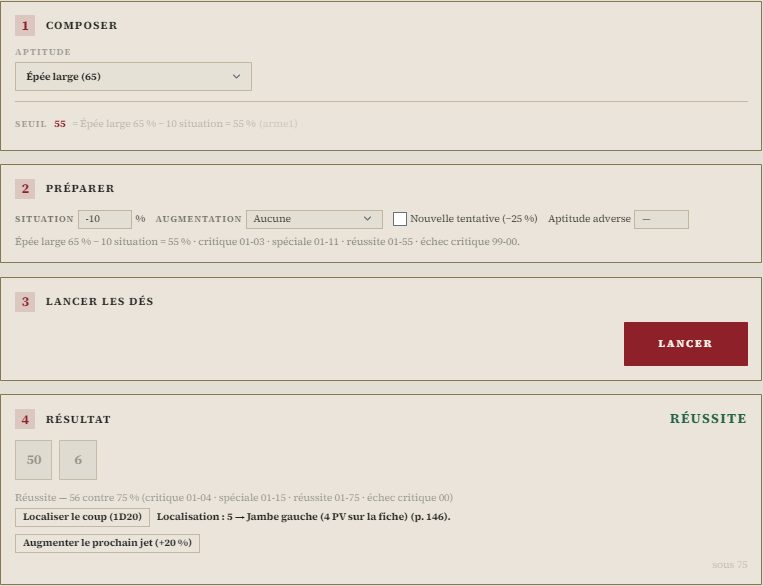
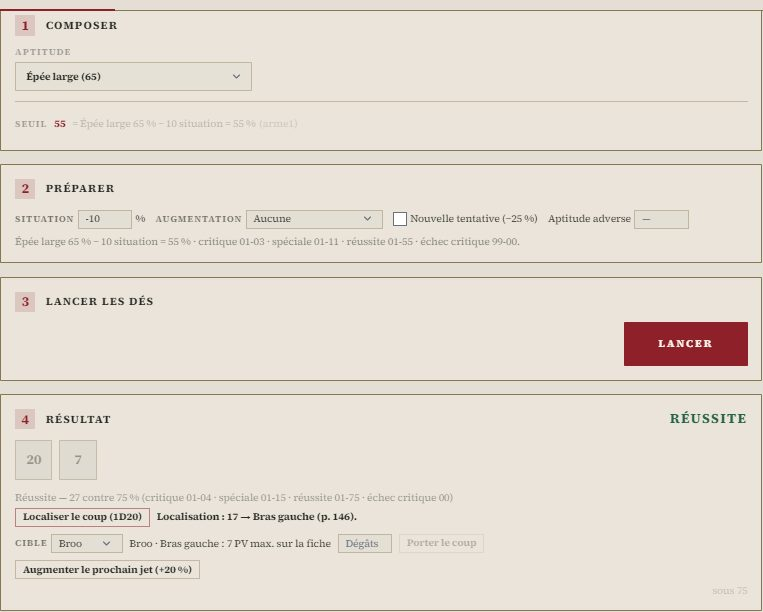
fix(runequest): afficher les PV de la cible choisie
A la demande de David, corriger RQ-A2 : afficher les PV maximum de la zone sur la fiche de la cible, sans reprendre ceux du lanceur. Mettre a jour localisation, journal, tests et manuel. Correction essayee et validee par David.

Changed region(s): [[0.0, 0.5222, 1.0, 0.9522], [0.0, 0.2457, 1.0, 0.5529], [0.0, 0.0, 1.0, 0.215]]

diff --git a/src/modules/session/components/fields/RuneQuestAuJet.tsx b/src/modules/session/components/fields/RuneQuestAuJet.tsx
@@ -1,8 +1,8 @@
 import React, { useState } from 'react';
 import {
-    AUGMENTATIONS_DE_RUNEQUEST, LIBELLES_DE_L_OPPOSITION, LIBELLES_DE_RUNEQUEST, MULTIPLICATEURS_DE_RUNEQUEST,
+    AUGMENTATIONS_DE_RUNEQUEST, LIBELLES_DE_L_OPPOSITION, LIBELLES_DE_RUNEQUEST, MULTIPLICATEURS_DE_RUNEQUEST, LOCALISATIONS,
     degreAdverse, issueDeLOpposition, localisationDuCoup, niveauDeRuneQuest, plagesDeRuneQuest,
-    type CalculDeRuneQuest, type ChoixDeRuneQuest, type JetDeRuneQuest, type RegleDeRuneQuest,
+    type CalculDeRuneQuest, type ChoixDeRuneQuest, type JetDeRuneQuest, type RegleDeRuneQuest, type Localisation,
 } from '../../../dice/systemes/runequest';
 import { useCombatStore } from '../../../combat/useCombatStore';
 import { porterUnCoupLocalise } from '../../../combat/coupsLocalises';
@@ -101,7 +101,6 @@ export const SuitesRuneQuest: React.FC<{
     jet: JetDeRuneQuest;
     calcul: CalculDeRuneQuest;
     regle: RegleDeRuneQuest;
-    valeurs: Record<string, unknown>;
     /** Lance un D20, pour la localisation. */
     d20: () => number;
     /** Sert ce résultat d'augmentation au prochain jet (p. 144-145). */
@@ -111,11 +110,11 @@ export const SuitesRuneQuest: React.FC<{
     consigner: (ligne: string) => void;
     /** Au meneur seulement : porter le coup localisé à un combattant (`porterUnCoupLocalise`). */
     porterLeCoup?: boolean;
-}> = ({ jet, calcul, regle, valeurs, d20, augmenter, retenter, consigner, porterLeCoup = false }) => {
+}> = ({ jet, calcul, regle, d20, augmenter, retenter, consigner, porterLeCoup = false }) => {
     const [deAdverse, setDeAdverse] = useState('');
     const [issue, setIssue] = useState<string | null>(null);
     const [localisation, setLocalisation] = useState<string | null>(null);
-    const [zoneTouchee, setZoneTouchee] = useState<string | null>(null);
+    const [zoneTouchee, setZoneTouchee] = useState<Localisation | null>(null);
     const niveau = jet.runequest.niveau;
     const bonus = AUGMENTATIONS_DE_RUNEQUEST[niveau];
     const reussi = niveau !== 'echec' && niveau !== 'echec-critique';
@@ -132,9 +131,9 @@ export const SuitesRuneQuest: React.FC<{
     const localiser = () => {
         const de = d20();
         const zone = localisationDuCoup(de);
-        const champPV = regle.localisations?.[zone.cle];
-        const pv = champPV !== undefined ? valeurs[champPV] : undefined;
-        const texte = `Localisation : ${de} → ${zone.label}${pv !== undefined && pv !== '' ? ` (${String(pv)} PV sur la fiche)` : ''} (p. 146).`;
+        // La localisation ne dépend pas du lanceur. Les PV se lisent sur la cible
+        // choisie ci-dessous, qui peut encore changer après le D20 (RQ-A2, 01/11/2026).
+        const texte = `Localisation : ${de} → ${zone.label} (p. 146).`;
         setLocalisation(texte);
         setZoneTouchee(zone.cle);
         consigner(texte);
@@ -157,7 +156,7 @@ export const SuitesRuneQuest: React.FC<{
                 <button type="button" className={bouton} onClick={localiser} title="1D20 sur la table des localisations (p. 146).">Localiser le coup (1D20)</button>
                 {localisation && <span data-localisation-runequest className="font-bold">{localisation}</span>}
             </div>
-            {porterLeCoup && zoneTouchee && <PorterLeCoup zone={zoneTouchee} />}
+            {porterLeCoup && zoneTouchee && <PorterLeCoup zone={zoneTouchee} regle={regle} />}
             <div className="flex flex-wrap items-center gap-2">
                 <button type="button" className={bouton} onClick={() => augmenter(bonus)}
                     title="Ce jet était un test d'augmentation : son niveau s'applique à l'aptitude lancée ensuite (p. 144-145).">
@@ -179,7 +178,7 @@ export const SuitesRuneQuest: React.FC<{
  * le tour, l'attaquant d'ordinaire. Les dégâts saisis passent par l'armure, la zone et
  * le total, par la même porte que la carte du combattant.
  */
-const PorterLeCoup: React.FC<{ zone: string }> = ({ zone }) => {
+const PorterLeCoup: React.FC<{ zone: Localisation; regle: RegleDeRuneQuest }> = ({ zone, regle }) => {
     const combattants = useCombatStore(s => s.combatants);
     const cibleDuTour = useCombatStore(s => s.combatants[s.currentTurnIdx]?.targetId ?? '');
     const [cible, setCible] = useState(cibleDuTour);
@@ -187,6 +186,11 @@ const PorterLeCoup: React.FC<{ zone: string }> = ({ zone }) => {
     const [porte, setPorte] = useState<string | null>(null);
     if (combattants.length === 0) return null;
     const vise = combattants.find(c => c.id === cible);
+    const champPV = regle.localisations?.[zone];
+    const valeurPV = champPV ? vise?.sheetData?.[champPV] : undefined;
+    const pv = (typeof valeurPV === 'number' || (typeof valeurPV === 'string' && valeurPV.trim() !== ''))
+        && Number.isFinite(Number(valeurPV)) ? Number(valeurPV) : undefined;
+    const libelleZone = LOCALISATIONS.find(l => l.cle === zone)!.label;
     const n = Math.max(0, entier(points));
     const porter = () => {
         if (!vise || n === 0) return;
@@ -203,6 +207,10 @@ const PorterLeCoup: React.FC<{ zone: string }> = ({ zone }) => {
                     {combattants.map(c => <option key={c.id} value={c.id}>{c.name}</option>)}
                 </select>
             </label>
+            <span data-pv-cible-runequest aria-live="polite">
+                {vise ? `${vise.name} · ${libelleZone} : ${pv === undefined ? 'PV inconnus sur la fiche' : `${pv} PV max. sur la fiche`}`
+                    : 'Choisir une cible pour lire les PV de la zone.'}
+            </span>
             <input aria-label="Dégâts portés" type="number" min={0} value={points} placeholder="Dégâts" className={`w-16 ${champ}`}
                 onChange={e => setPoints(e.target.value)} />
             <button type="button" className={bouton} disabled={!vise || n === 0} onClick={porter}

diff --git a/src/modules/session/components/fields/PanneauDeJet.runequest.test.tsx b/src/modules/session/components/fields/PanneauDeJet.runequest.test.tsx
@@ -1,5 +1,5 @@
 import { describe, it, expect, vi, beforeEach, afterEach } from 'vitest';
-import { render, screen, fireEvent, cleanup } from '@testing-library/react';
+import { render, screen, fireEvent, cleanup, act } from '@testing-library/react';
 
 const consigner = vi.fn();
 vi.mock('../../../journal/consignerLeJet', () => ({ consignerLeJet: (...a: unknown[]) => consigner(...a) }));
@@ -116,19 +116,20 @@ describe('le jet de RuneQuest au panneau', () => {
         expect(screen.getByText(/Il l’emporte/)).toBeTruthy();
     });
 
-    it('localise le coup au D20 et dit les PV de la zone (p. 146)', () => {
+    it('localise le coup sans attribuer les PV du lanceur à la cible (p. 146)', () => {
         monter('epee_large');
         faces(30);
         lancer();
         d20(12);
         fireEvent.click(screen.getByText('Localiser le coup (1D20)'));
-        expect(screen.getByText(/12 → Poitrine \(5 PV sur la fiche\)/)).toBeTruthy();
+        expect(screen.getByText('Localisation : 12 → Poitrine (p. 146).')).toBeTruthy();
+        expect(JSON.stringify(consigner.mock.calls)).not.toContain('5 PV');
     });
 
     describe('le coup localisé, porté depuis le jet (2026-10-30)', () => {
         const combat = useCombatStore.getState();
-        const broo = { id: 'broo', name: 'Broo', isPlayer: false, hp: 12, hpMax: 12, statuses: [], sheetData: {} } as unknown as Combatant;
-        const vasana = { id: 'vasana', name: 'Vasana', isPlayer: false, hp: 12, hpMax: 12, statuses: [], targetId: 'broo', sheetData: {} } as unknown as Combatant;
+        const broo = { id: 'broo', name: 'Broo', isPlayer: false, hp: 12, hpMax: 12, statuses: [], sheetData: { pv_poitrine: 7 } } as unknown as Combatant;
+        const vasana = { id: 'vasana', name: 'Vasana', isPlayer: false, hp: 12, hpMax: 12, statuses: [], targetId: 'broo', sheetData: { pv_poitrine: 3 } } as unknown as Combatant;
         beforeEach(() => useCombatStore.setState({ combatants: [vasana, broo], currentTurnIdx: 0 }));
         afterEach(() => useCombatStore.setState(combat, true));
 
@@ -140,6 +141,35 @@ describe('le jet de RuneQuest au panneau', () => {
             fireEvent.click(screen.getByText('Localiser le coup (1D20)'));
             expect((screen.getByLabelText('Cible du coup') as HTMLSelectElement).value).toBe('broo');
             expect(screen.getByText('Porter le coup')).toBeTruthy();
+            expect(screen.getByText('Broo · Poitrine : 7 PV max. sur la fiche')).toBeTruthy();
+        });
+
+        it('change les PV affichés avec la cible, sans relancer la localisation ni modifier le lanceur', () => {
+            const panneau = monter('epee_large');
+            faces(30); lancer(); d20(12);
+            fireEvent.click(screen.getByText('Localiser le coup (1D20)'));
+            fireEvent.change(screen.getByLabelText('Cible du coup'), { target: { value: 'vasana' } });
+            expect(screen.getByText('Vasana · Poitrine : 3 PV max. sur la fiche')).toBeTruthy();
+            expect(panneau.querySelector('[data-localisation-runequest]')!.textContent).toBe('Localisation : 12 → Poitrine (p. 146).');
+            expect(JSON.stringify(consigner.mock.calls)).not.toContain('5 PV');
+            expect(VALEURS.pv_poitrine).toBe(5);
+            expect(useCombatStore.getState().combatants).toEqual([vasana, broo]);
+        });
+
+        it.each([undefined, '', '   ', null, 'inconnu'])('annonce les PV inconnus pour une valeur cible %s, sans reprendre ceux du lanceur', valeur => {
+            useCombatStore.setState({ combatants: [vasana, { ...broo, sheetData: { pv_poitrine: valeur } }] });
+            monter('epee_large'); faces(30); lancer(); d20(12);
+            fireEvent.click(screen.getByText('Localiser le coup (1D20)'));
+            expect(screen.getByText('Broo · Poitrine : PV inconnus sur la fiche')).toBeTruthy();
+            fireEvent.change(screen.getByLabelText('Cible du coup'), { target: { value: '' } });
+            expect(screen.getByText('Choisir une cible pour lire les PV de la zone.')).toBeTruthy();
+        });
+
+        it('actualise les PV de la cible depuis Combat-OS et conserve un zéro explicite', () => {
+            monter('epee_large'); faces(30); lancer(); d20(12);
+            fireEvent.click(screen.getByText('Localiser le coup (1D20)'));
+            act(() => useCombatStore.setState({ combatants: [vasana, { ...broo, sheetData: { pv_poitrine: 0 } }] }));
+            expect(screen.getByText('Broo · Poitrine : 0 PV max. sur la fiche')).toBeTruthy();
         });
 
         it('ne se propose pas sur la tablette d’un joueur', () => {
@@ -150,6 +180,8 @@ describe('le jet de RuneQuest au panneau', () => {
             d20(12);
             fireEvent.click(screen.getByText('Localiser le coup (1D20)'));
             expect(screen.queryByText('Porter le coup')).toBeNull();
+            expect(screen.queryByLabelText('Cible du coup')).toBeNull();
+            expect(screen.queryByText(/PV max. sur la fiche/)).toBeNull();
         });
     });
 });

diff --git a/e2e/capturesDesJeux.spec.ts b/e2e/capturesDesJeux.spec.ts
@@ -1098,9 +1098,38 @@ async function scenesDeRuneQuest(c: ContexteDeScene): Promise<void> {
     await panneau.getByRole('button', { name: 'Lancer', exact: true }).click();
     const suites = panneau.locator('[data-suites-runequest]');
     await expect(suites).toBeVisible();
-    await suites.getByRole('button', { name: 'Localiser le coup (1D20)', exact: true }).click();
-    await expect(suites.locator('[data-localisation-runequest]')).toContainText('PV sur la fiche');
-    await photographier(panneau, 'jeu-runequest-suites');
+    // RQ-A2 (01/11) : les valeurs de deux cibles fictives diffèrent de celles de Vasana.
+    const combatAvant = await f.evaluate(champs => {
+        const combat = (window as unknown as Fenetre).useCombatStore;
+        const { combatants, currentTurnIdx } = combat.getState();
+        combat.setState({ currentTurnIdx: 0, combatants: [
+            { id: 'rq-broo', name: 'Broo', init: 1, isPlayer: false, faction: 'enemy', statuses: [], targetId: 'rq-broo',
+                sheetData: Object.fromEntries(champs.map(champ => [champ, 7])) },
+            { id: 'rq-guerrier', name: 'Guerrier', init: 2, isPlayer: false, faction: 'enemy', statuses: [],
+                sheetData: Object.fromEntries(champs.map(champ => [champ, 3])) },
+        ] });
+        return { combatants, currentTurnIdx };
+    }, Object.values(c.pilote.gameDriver.jet?.runequest?.localisations ?? {}));
+    try {
+        await suites.getByRole('button', { name: 'Localiser le coup (1D20)', exact: true }).click();
+        const localisation = suites.locator('[data-localisation-runequest]');
+        await expect(localisation).toContainText('Localisation :');
+        await expect(localisation).not.toContainText('PV');
+        const resultat = await localisation.textContent();
+        const pv = suites.locator('[data-pv-cible-runequest]');
+        await expect(pv).toContainText('Broo');
+        await expect(pv).toContainText('7 PV max. sur la fiche');
+        await suites.getByLabel('Cible du coup', { exact: true }).selectOption('rq-guerrier');
+        await expect(pv).toContainText('Guerrier');
+        await expect(pv).toContainText('3 PV max. sur la fiche');
+        await expect(localisation).toHaveText(resultat!);
+        await suites.getByLabel('Cible du coup', { exact: true }).selectOption('');
+        await expect(pv).toHaveText('Choisir une cible pour lire les PV de la zone.');
+        await suites.getByLabel('Cible du coup', { exact: true }).selectOption('rq-broo');
+        await photographier(panneau, 'jeu-runequest-suites');
+    } finally {
+        await f.evaluate(avant => (window as unknown as Fenetre).useCombatStore.setState(avant), combatAvant);
+    }
 
     // La situation reste réglée d'un jet à l'autre ; l'augmentation, elle, n'a valu qu'une fois.
     await panneau.getByLabel('Modificateur de situation', { exact: true }).fill('0');

diff --git a/src/modules/session/components/fields/PanneauDeJet.tsx b/src/modules/session/components/fields/PanneauDeJet.tsx
@@ -3103,7 +3103,7 @@ const PanneauDeJet: React.FC<PanneauDeJetProps> = ({
                         )}
                         {regleRuneQuest && runequestDuLancer && runequestDuResultat && (
                             <SuitesRuneQuest key={runequestDuLancer.compte} jet={resultat as JetDeRuneQuest} calcul={runequestDuLancer.calcul}
-                                regle={regleRuneQuest} valeurs={valeurs} d20={() => DiceEngine.roll(20)} porterLeCoup={!pourLesJoueurs}
+                                regle={regleRuneQuest} d20={() => DiceEngine.roll(20)} porterLeCoup={!pourLesJoueurs}
                                 augmenter={bonus => setChoixRuneQuest(c => ({ ...c, augmentation: bonus }))}
                                 retenter={() => setChoixRuneQuest(c => ({ ...c, nouvelleTentative: true }))}
                                 consigner={ligne => redire(dernierLancer?.titre ?? 'RuneQuest', { total: 0, modifier: 0, rolls: [], totalDisplay: ligne })} />

diff --git a/documentation/User Guides/53-Les-jeux-et-leurs-mecaniques.md b/documentation/User Guides/53-Les-jeux-et-leurs-mecaniques.md
@@ -166,7 +166,7 @@ appareil. Un pilote décrit son jet avec une ou plusieurs de ces pièces :
 | **Réserve à succès et déclencheurs** (`degenesis`) | La réserve (attribut + compétence, `reserve.composantes`) réussit chaque dé sur `dice.successThreshold` (4). L'étape « Préparer » choisit la difficulté du livre en succès requis, ajoute les **modificateurs en dés** (portée, déplacement, obscurité…) et l'**Égo dépensé** (`ego`, retiré de la fiche au lancer) ; chaque Traumatisme de `traumatismes` retire un dé ; au-delà de 12 dés, le surplus devient des succès d'office. Le résultat dit la réussite et ses **déclencheurs** (bien … légendaire), ou l'**échec critique**. Voir le [guide Degenesis](54-Jeu-Degenesis.md) | Degenesis : INS 2 + Dressage 1 → 3 dés, difficulté 2 |
 | **d20 + caractéristique contre la difficulté** (`coc`) | Une composante, choisie parmi les caractéristiques, les attaques et les armes nommées (`motif`). L'étape « Préparer » règle la **difficulté** du livre ou la **DEF** de la cible (`attaques`), les **conditions** (±2, ±5, ±10), les **aides** (+2), le **dé bonus** ou **malus** (deux d20, le meilleur ou le pire), le pire **état préjudiciable**, les **plages critiques**, *prendre son temps* (10) ou le mode *rapide et furieux* ; l'état de l'**échelle de santé** (`sante`) retire son malus aux actions physiques (`physiques`), le **blues** joue sur la VOL et les interactions (`evolution`). Après : l'**échelle du héros** (+2, +5, Légende +10) et l'échelon gagné sur un critique. `des: '3d6'` passe à l'option du 3d6. Voir le [guide COC](54-Jeu-COC.md) | COC : AGI 3, 8 au dé → 11 contre 10, réussi |
 | **Réserve et dés de risque** (`shadowrun`) | La réserve (compétence + attribut, `reserve.composantes`) ne change jamais, sauf les deux dés de la **spécialisation**. L'étape « Préparer » règle le **seuil** du livre, les **dés de risque** — la table « Combien prendre de dés de risque ? » en raccourcis, l'action **normale** par défaut —, la **RR** (proposée d'après `rrDesCompetences`), la **situation** (avantage, désavantage), l'**avantage payé** d'un point d'Anarchy (`anarchy`), la **blessure légère récente** et le **test de magie** (l'`essence` annule des succès) ; une blessure grave (`blessures`) impose le désavantage, une incapacitante interdit le test. Le résultat dit les **succès nets**, la **complication** et l'Anarchy qu'elle rapporte ; **Relancer** coûte un point et garde la complication du premier jet. `risqueAlternatif` passe aux dés spéciaux de la p. 72. Voir le [guide Shadowrun](54-Jeu-Shadowrun-Anarchy.md) | Shadowrun : Armes à distance 7 + Agilité 4 → 11 dés, 7 de risque, RR 1 |
-| **Cinq niveaux sur les chances modifiées** (`runequest`) | Un d100 sous l'aptitude retenue (une seule composante). L'étape « Préparer » règle la situation, l'augmentation, la nouvelle tentative (−25) et l'aptitude adverse — au-delà de 100 %, l'excédent se retire aux deux camps. Une caractéristique nommée dans `caracteristiques` se teste ×5 à ×0,5 ou sur la table de résistance. Critique et spéciale au vingtième et au cinquième, échec critique dans les 5 % des chances d'échec, 01-05 et 96-00 toujours ; le résultat se nomme comme le livre. Après : trancher l'opposition, localiser le coup (les PV lus dans `localisations`), servir le jet d'augmentation. Voir le [guide RuneQuest](54-Jeu-RuneQuest.md) | RuneQuest : Épée large 65 %, +20, −10 → 75 % (critique 01-04, spéciale 01-15) |
+| **Cinq niveaux sur les chances modifiées** (`runequest`) | Un d100 sous l'aptitude retenue (une seule composante). L'étape « Préparer » règle la situation, l'augmentation, la nouvelle tentative (−25) et l'aptitude adverse — au-delà de 100 %, l'excédent se retire aux deux camps. Une caractéristique nommée dans `caracteristiques` se teste ×5 à ×0,5 ou sur la table de résistance. Critique et spéciale au vingtième et au cinquième, échec critique dans les 5 % des chances d'échec, 01-05 et 96-00 toujours ; le résultat se nomme comme le livre. Après : trancher l'opposition, localiser le coup (au meneur, les PV maximum de la zone lus sur la fiche de la cible choisie, via `localisations`), servir le jet d'augmentation. Voir le [guide RuneQuest](54-Jeu-RuneQuest.md) | RuneQuest : Épée large 65 %, +20, −10 → 75 % (critique 01-04, spéciale 01-15) |
 | **Symbaroum jusqu'au bout** (`symbaroum`) | Sur un d20 sous un Attribut : la **nature du test** (Test, Attaque, Défense — la Défense se jette sur sa valeur secondaire). Après une attaque réussie, **les dégâts** de l'arme de la fiche (Avantage +1D4, Attaque parfaite +1D6) moins la protection fixe du PNJ, et la Résistance à la douleur ; après une Défense ratée, **encaisser** : les dégâts fixes du PNJ moins la protection lancée, retirés de l'Endurance — à 0, mourant. Le 1 et le 20 n'ont **pas de critique de base**. Cartes **Endurance et agonie** (Test de mort, soins, Medicus par rang), **Corruption et Stigmates** (sources, Stigmates du Tableau 24, Ombre), **Le tour de combat**, **Bourse** (thalers, shillings, ortegs), et au meneur **Valeurs dérivées**, **Création et progression**, **Voyage** (Tableau 26) et **Règles optionnelles**, retenues sur la campagne : Mort subite, dégâts critiques, attaques parfaites (confirmées ou non), relances contre l'Expérience ou la Corruption. Voir le [guide Symbaroum](54-Jeu-Symbaroum.md) | Symbaroum |
 | **Star Trek jusqu'au bout** (`starTrek`) | À l'étape « Préparer » : la **nature** de la tâche (Tâche, attaque au corps à corps — Audace + Sécurité, difficulté 1 —, à distance — Maîtrise + Sécurité, difficulté 2), la **marge de complication** (20 à 16–20), la tâche **en opposition** (les réussites du réactif font la difficulté), les **assistants** (un d20 chacun, à leur seuil, comptés si le personnage réussit ; le deuxième et les suivants coûtent 1 Impulsion), l'**aide du vaisseau** (système + fonction, lue dans le module Bataille spatiale, ou saisie), l'**Occasion parfaite** (1 Détermination : un dé vaut 1). Après : **repousser une complication** (+2 Menace), la **réussite mitigée** (au meneur), l'**Éclair d'inspiration** et **Viser** (relances), l'Impulsion du réactif, la **blessure** infligée (gravité, +2 Impulsion par point, létale +1 Menace). Cartes **Stress et blessures**, **Le tour de conflit**, et au meneur **Réputation de fin de mission** et **Création et progression**. Voir le [guide Star Trek](54-Jeu-Star-Trek.md) | Star Trek |
 | **Critique, complication** (`critique`, `complication`) | Les faces qui comptent double, ou qui compliquent | 2d20 : 1 et 20 |

diff --git a/documentation/Planning/2026-11-01-etat-et-reprise-codex-runequest-pv-cible.md b/documentation/Planning/2026-11-01-etat-et-reprise-codex-runequest-pv-cible.md
@@ -1,0 +1,67 @@
+# Reprise Codex — RuneQuest, PV de la cible — 01/11/2026
+
+> **Suivi du 01/11 :** RQ-A2 validé par David ; RQ-A1 livré en 2.1.0/320 champs, 78 cas. Le texte ci-dessous conserve son état de livraison initial ; [reprise courante](2026-11-01-etat-et-reprise-codex-runequest-recette-210.md).
+
+David valide le travail précédent : « ok c'est essayé c'est bon... J'ai fait tout les autres tests en attentes aussi. On passe au point 2 affichage des PV ». Puis : « GM-OS est fermé, tu peux corriger ».
+
+## Produit
+
+**RQ-A2 livré, nouvel essai de David attendu**, registre § 201. Dans RuneQuestAuJet, la
+localisation au D20 et son journal ne reprennent plus les PV du lanceur. Au meneur, la ligne
+de cible affiche le nom du combattant, la zone et ses **PV maximum sur la fiche** ; les PV
+restants se consultent dans Combat-OS. Changer de cible ou actualiser sa fiche met cette
+ligne à jour sans relancer le D20. Valeurs absentes, vides ou invalides annoncées inconnues ;
+zéro explicite conservé. Aucun repli sur le lanceur. La tablette n'affiche pas ces détails.
+
+Le calcul des dégâts localisés passe toujours par la même porte. L'application corrige
+l'affichage ; aucun pilote à réimporter pour RQ-A2. La recette 2.0.0 demeure inchangée :
+sa mise à niveau 2.1.0 est le lot séparé **RQ-A1**.
+
+## Vérifications
+
+- Régression avant correction : **7 tests verts / 9 rouges** sur le panneau.
+- Après : **89 tests ciblés passent** (59 règle, 14 coups localisés, 16 panneau).
+- Panneau rejoué après retrait de sa propriété devenue inutile et manuel contrôlé :
+  **42 tests passent** (16 panneau déjà comptés, 26 contrat du manuel).
+- ESLint ciblé sans erreur ; **npm run build**, incluant **tsc -b**, réussi.
+- **Un essai Electron RuneQuest passe** (23,9 s, 27,4 s au total) : cible Broo 7 PV,
+  Guerrier 3 PV, localisation inchangée au changement de cible, absence de sélection
+  explicite. Le parcours joue aussi fiche HTML et coup localisé sur la carte.
+- Capture des suites examinée puis copiée dans le manuel ; autres captures conservées
+  seulement sous output/verification-runequest-pv-cible/captures/.
+- Manuels 53/54, synthèse, indicateurs et registre actualisés. Preuves et empreintes :
+  [rapport](../../output/verification-runequest-pv-cible/RAPPORT.md),
+  [JSON](../../output/verification-runequest-pv-cible/verification.json).
+
+L'export 2.1.0 mentionné par le manuel n'est plus présent dans Export Dirvers. Pour cet
+essai uniquement, le générateur existant a reconstruit **un pilote 2.1.0 de 320 champs**
+depuis le pilote 2.0.0 conservé dans output/campagnes-tests/runequest/, sous
+tmp/rq-pv-cible/pilotes/. Ce n'est ni une preuve d'import des trois campagnes en 2.1.0,
+ni une nouvelle livraison de leurs archives. Le premier appel Python restreint a échoué ;
+py hors bac à sable a réussi. Aucun paquet installé.
+
+## Validation et prochain geste
+
+NP-C1/GM-05 est **coché et vert**, conformément à l'essai confirmé par David. Sa validation
+globale clôt les essais des fonctions déjà livrées des quatre pilotes dans la synthèse ;
+aucun détail par cas, résultat CSV ou essai matériel n'est inventé. Les rapports historiques
+de recette gardent leurs constats avant correction. Les propositions non développées restent
+rouges et non cochées. Les notes précédentes portent un renvoi daté vers cet état.
+
+David peut essayer le nouvel affichage : localiser un coup, choisir deux combattants dont
+les PV de zone diffèrent, puis une cible sans valeur ; contrôler les maxima affichés et
+l'absence de modification du lanceur. **RQ-A2 reste vide et orange jusqu'à sa validation.**
+Ensuite reprendre RQ-A1 sur demande, sans l'absorber dans cette correction.
+
+## Isolement et état du dépôt
+
+Instance Electron via lancerGmOs, profils/USERPROFILE/corpus/coffre/sauvegardes/ports jetables,
+appareils désactivés ; essais isolés et relance hors bac à sable déjà autorisés dans la
+conversation. Aucun accès aux campagnes ou sauvegardes personnelles. Captures envoyées hors
+documentation, puis une seule image choisie copiée après examen ; aucune suite globale lancée.
+
+Fichiers de ce lot : RuneQuestAuJet.tsx, appel dans PanneauDeJet.tsx, tests du panneau,
+e2e/capturesDesJeux.spec.ts, manuels 53/54 et capture des suites, suivi et preuves.
+Les modifications GM-05/analyse précédentes restent présentes. **Non commité, non poussé** :
+David n'a pas demandé de Git d'écriture pour ces lots. Ne pas toucher aux exports,
+références, traces et fichiers temporaires des autres chantiers.

diff --git a/documentation/User Guides/54-Jeu-RuneQuest.md b/documentation/User Guides/54-Jeu-RuneQuest.md
@@ -1,7 +1,8 @@
 # 🏺 Jeu — RuneQuest
 
 > **Pilote décrit :** « RuneQuest », forgé par David, exporté le 2026-10-30, **fini le
-> 2026-10-30**, version 2.1.0 — les coups localisés de Combat-OS ajoutés le même jour
+> 2026-10-30**, version 2.1.0 — les coups localisés de Combat-OS ajoutés le même jour,
+> affichage des PV de la cible corrigé le **2026-11-01** dans l'application
 > (`Export Dirvers/corriges/RQ_driver_gmos_finir.gmos-driver`, construit par
 > `outils/runequest/finir_runequest.py`). Thème `runequest` et fiche de personnage
 > HTML `runequest-fr` livrés le même jour, la fiche reliée champ par champ. Retour à [Les jeux et leurs mécaniques](./53-Les-jeux-et-leurs-mecaniques.md).
@@ -12,6 +13,14 @@ chances **modifiées** : réussite critique, réussite spéciale, réussite, éc
 Autour de lui : le test de caractéristique, la table de résistance, l'augmentation, la nouvelle
 tentative, l'opposition et la localisation du coup. Dans Combat-OS, les **coups localisés** :
 l'armure de la zone, ses points de vie et ceux du total, et l'effet du livre.
+
+**Campagnes de recette révisées le 01/11/2026 :** le lot dans
+`output/campagnes-tests/runequest/` embarque le pilote **2.1.0, 320 champs**, 21 PJ et
+78 cas, dont douze **RQ-LOCAL** pour les coups localisés. Si le pilote installé est encore
+2.0.0, importer d'abord le fichier `RuneQuest-2.1.0.gmos-driver` avec **Remplacer** : une
+campagne Nexus conserve une dépendance déjà présente du même ID. Pour retrouver les états
+préparés, remplacer uniquement le laboratoire voulu ; préserver une aventure déjà jouée.
+Les maxima de zone et les dégâts reçus sont distincts : C07 bras 0/3, C08 tête −4/4.
 
 > Règles relues contre le livre de base français (Deadcrows, 7e édition) **et son errata** le
 > 2026-10-30 — pages imprimées 6-12, 45-63, 82, 137-161, 191-224, 227-238, 244-257, 275,
@@ -78,9 +87,11 @@ Retenir une **caractéristique** fait paraître un menu :
   réussite** gagne ; deux niveaux égaux font une **égalité** ; deux échecs, deux perdants.
   Au-delà de 100 %, l'excédent de la meilleure aptitude s'est retiré **aux deux camps** avant le
   jet, et critique et spéciale se lisent sur le score réduit (p. 144).
-- **Localiser le coup (1D20)** : la table du livre, de la jambe droite (1-4) à la tête (19-20),
-  avec les points de vie de la zone lus sur la fiche (p. 146). Au meneur, une ligne de plus :
-  la **cible** — par défaut celle du combattant dont c'est le tour —, les **dégâts**, et
+- **Localiser le coup (1D20)** : la table du livre, de la jambe droite (1-4) à la tête (19-20)
+  (p. 146). Au meneur, une ligne de plus : la **cible** — par défaut celle du combattant
+  dont c'est le tour — et les **PV maximum de la zone sur sa fiche**. Changer la cible
+  actualise ces PV sans relancer le D20. Ce sont les maxima, pas les PV restants après
+  blessures ; une valeur absente est indiquée comme inconnue. Puis viennent les **dégâts** et
   **« Porter le coup »**, qui passe par l'armure et la zone de la cible comme sur sa carte de
   combat (ci-dessous). Pas sur la tablette d'un joueur.
 - **Augmenter le prochain jet** : ce jet était un test d'augmentation ; son niveau s'inscrit dans

diff --git a/output/verification-runequest-pv-cible/RAPPORT.md b/output/verification-runequest-pv-cible/RAPPORT.md
@@ -1,0 +1,9 @@
+# RuneQuest — PV de la cible, 01/11/2026
+
+RQ-A2 livré, nouvel essai de David attendu. La ligne de cible montre ses PV maximum de zone et se met à jour au changement de cible ; valeurs manquantes inconnues, zéro conservé. Localisation et journal sans PV du lanceur.
+
+Régression avant correction : 7 tests verts, 9 rouges. Après : 89 tests passent sur trois fichiers ; 42 tests panneau/manuel passent (dont 16 déjà comptés). Lint ciblé et compilation/types réussis. Un essai Electron isolé RuneQuest passe en 27,4 s : deux cibles 7/3 PV, changement sans nouveau D20, sélection vide explicite ; fiche HTML et coups localisés joués aussi.
+
+Capture examinée : [suites du jet](captures/jeu-runequest-suites.jpg), copiée dans le manuel. Les autres images accompagnent le parcours sans remplacer les captures existantes. Empreintes dans [verification.json](verification.json).
+
+Le pilote 2.1.0 de 320 champs a été reconstruit uniquement sous tmp avec le générateur existant depuis le pilote 2.0.0 du lot de recette. Les trois archives restent en 2.0.0 ; leur alignement est RQ-A1. Aucun profil ou fichier personnel consulté ; isolement via lancerGmOs, aucun paquet ni Git d’écriture.
